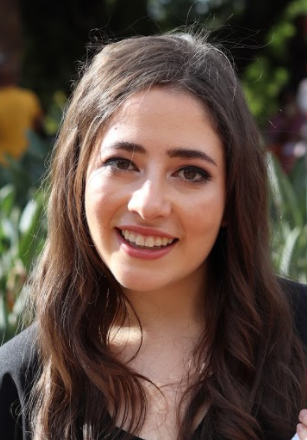
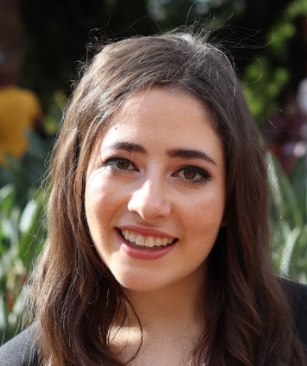
updated

diff --git a/index.html b/index.html
@@ -821,7 +821,7 @@
           <div class="col-md-4">
             <div class="speaker">
               <figure>
-                <img alt="" class="img-responsive center-block" src="assets/images/organisers/marvellous_ajala.JPG"
+                <img alt="" class="img-responsive center-block" src="assets/images/organisers/marvellous_ajala.jpeg"
                   style="border-radius: 50%; width: 150px; height: 150px; object-fit: cover;">
               </figure>
               <h4>Marvellous Ajala</h4>
